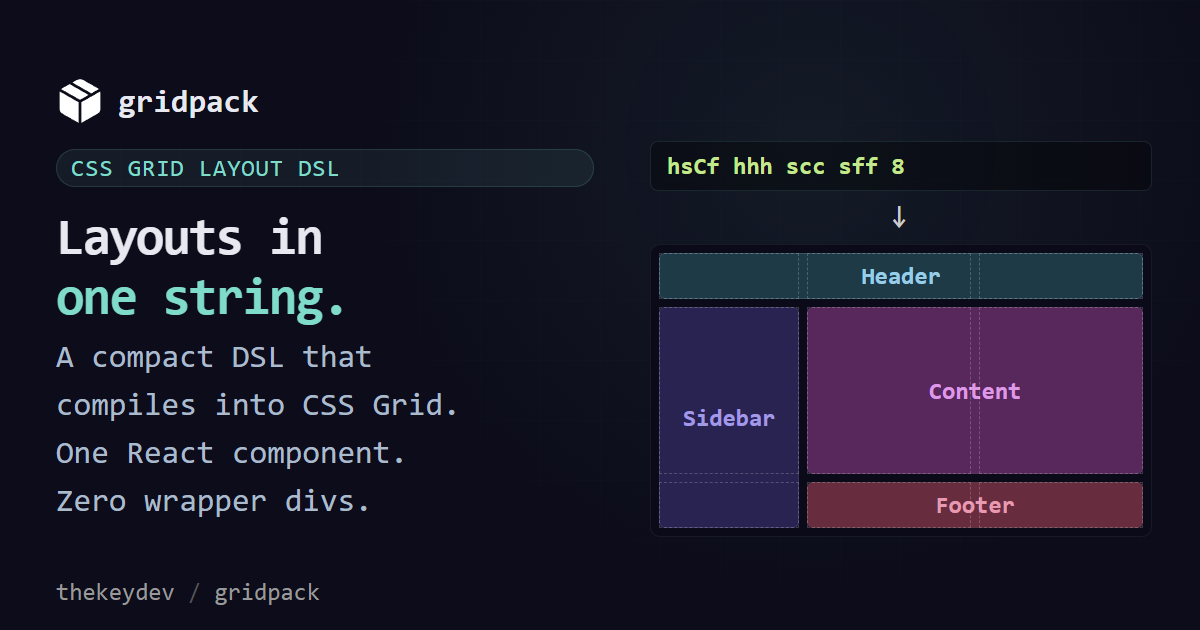
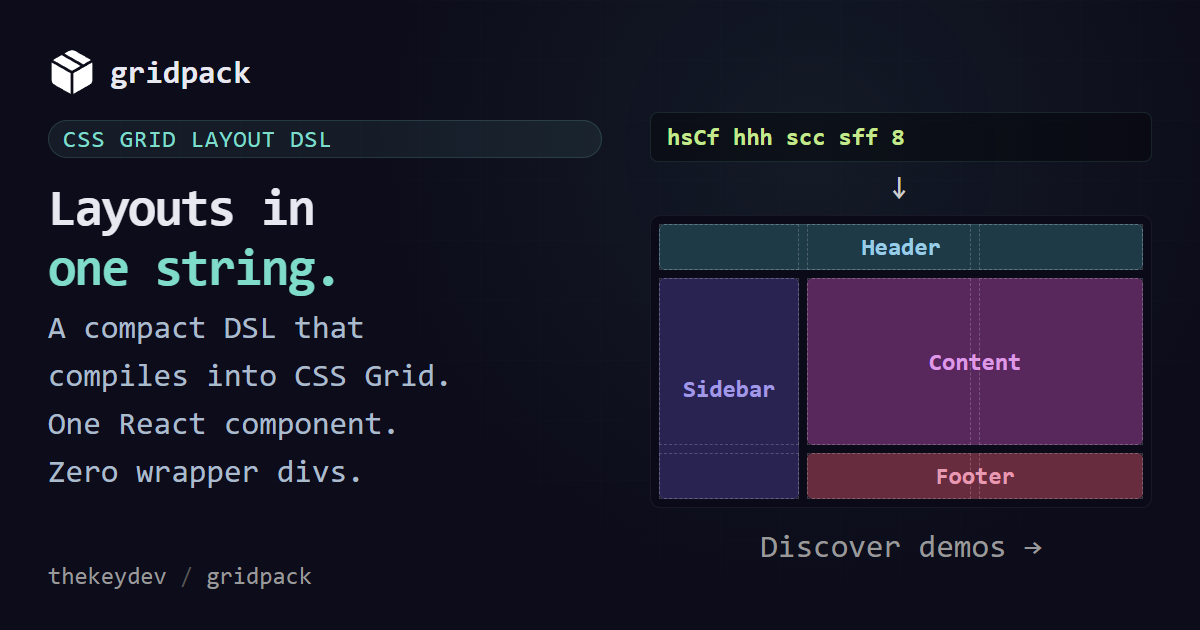
update og-image

diff --git a/demo/OgImage.jsx b/demo/OgImage.jsx
@@ -45,12 +45,12 @@ let OgImage = () =>
 			}
 			.og-left {
 				flex: 1; display: flex; flex-direction: column;
-				justify-content: center; padding: 60px 56px;
+				justify-content: start; padding: 48px;
 				position: relative; z-index: 1;
 			}
 			.og-right {
 				width: 550px; display: flex; flex-direction: column;
-				justify-content: center; padding: 48px 48px 0 0;
+				padding: 112px 48px 0 0;
 				position: relative; z-index: 1;
 			}
 			.og-title {
@@ -93,8 +93,12 @@ let OgImage = () =>
 			.og-brand-name {
 				font-size: 32px; font-weight: 700; color: #e8e8f0;
 			}
+			.og-footer-right {
+				margin: 20px auto;
+				font-size: 32px; color: #999; z-index: 1;
+			}
 			.og-footer {
-				position: absolute; bottom: 24px; left: 56px;
+				position: absolute; bottom: 40px; left: 48px;
 				font-size: 24px; color: #999; z-index: 1;
 			}
 			.og-footer span { color: #555; }
@@ -131,6 +135,9 @@ let OgImage = () =>
 					<MiniBox c={2}>Content</MiniBox>
 					<MiniBox c={3}>Footer</MiniBox>
 				</Grid>
+			</div>
+			<div className="og-footer-right">
+				Discover demos →
 			</div>
 		</div>
 

diff --git a/demo/index.html b/demo/index.html
@@ -6,7 +6,7 @@
 
 	<!-- OpenGraph basics -->
 	<meta property="og:title" content="gridpack — Build complex CSS Grid layouts from one string" />
-	<meta property="og:description" content="A tiny React layout engine that turns compact strings into real CSS Grid templates. Build responsive dashboards, holy grails, and split panes with zero wrapper divs." />
+	<meta property="og:description" content="Tiny React layout engine that turns compact strings into CSS Grids. Build responsive dashboards, holy grails, and split panes with zero wrapper divs." />
 	<meta property="og:image" content="https://thekeydev.github.io/gridpack/demo/og-image.png" />
 	<meta property="og:url" content="https://thekeydev.github.io/gridpack/demo/" />
 	<meta property="og:type" content="website" />
@@ -17,7 +17,7 @@
 	<!-- Twitter/X specific -->
 	<meta name="twitter:card" content="summary_large_image" />
 	<meta name="twitter:title" content="gridpack — Build complex CSS Grid layouts from one string" />
-	<meta name="twitter:description" content="A tiny React layout engine that turns compact strings into real CSS Grid templates. Build responsive dashboards, holy grails, and split panes with zero wrapper divs." />
+	<meta name="twitter:description" content="Tiny React layout engine that turns compact strings into CSS Grids. Build responsive dashboards, holy grails, and split panes with zero wrapper divs." />
 	<meta name="twitter:image" content="https://thekeydev.github.io/gridpack/demo/og-image.png" />
 	<meta name="twitter:creator" content="@th_k_y" />
 